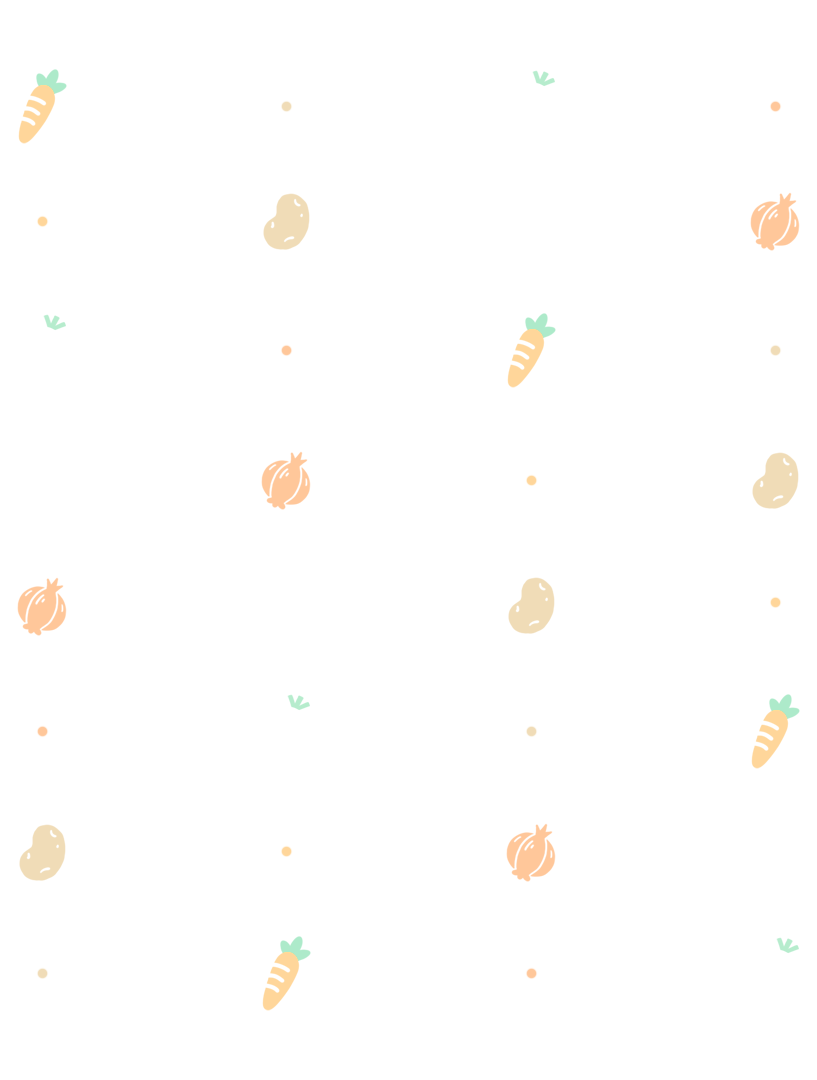
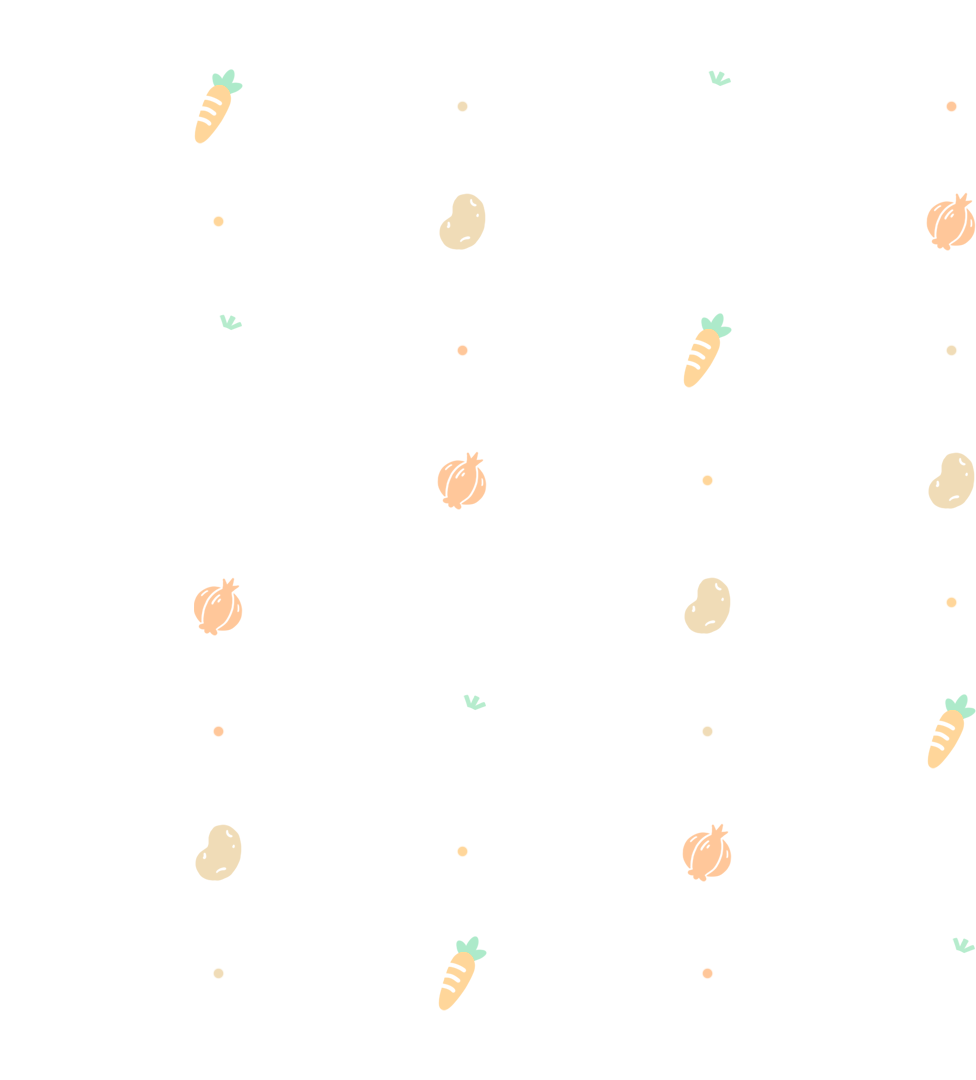
Added infinite scrolling background.

diff --git a/Assets/Scripts/Menus/BGScroller.cs b/Assets/Scripts/Menus/BGScroller.cs
@@ -1,0 +1,16 @@
+using System.Collections;
+using System.Collections.Generic;
+using UnityEngine;
+using UnityEngine.UI;
+
+public class BGScroller : MonoBehaviour
+{
+    [SerializeField] private RawImage bgimg;
+    [SerializeField] private float x_rate, y_rate;
+
+    // Update is called once per frame
+    void Update()
+    {
+        bgimg.uvRect = new Rect(bgimg.uvRect.position + new Vector2(x_rate, y_rate) * Time.deltaTime, bgimg.uvRect.size);
+    }
+}
